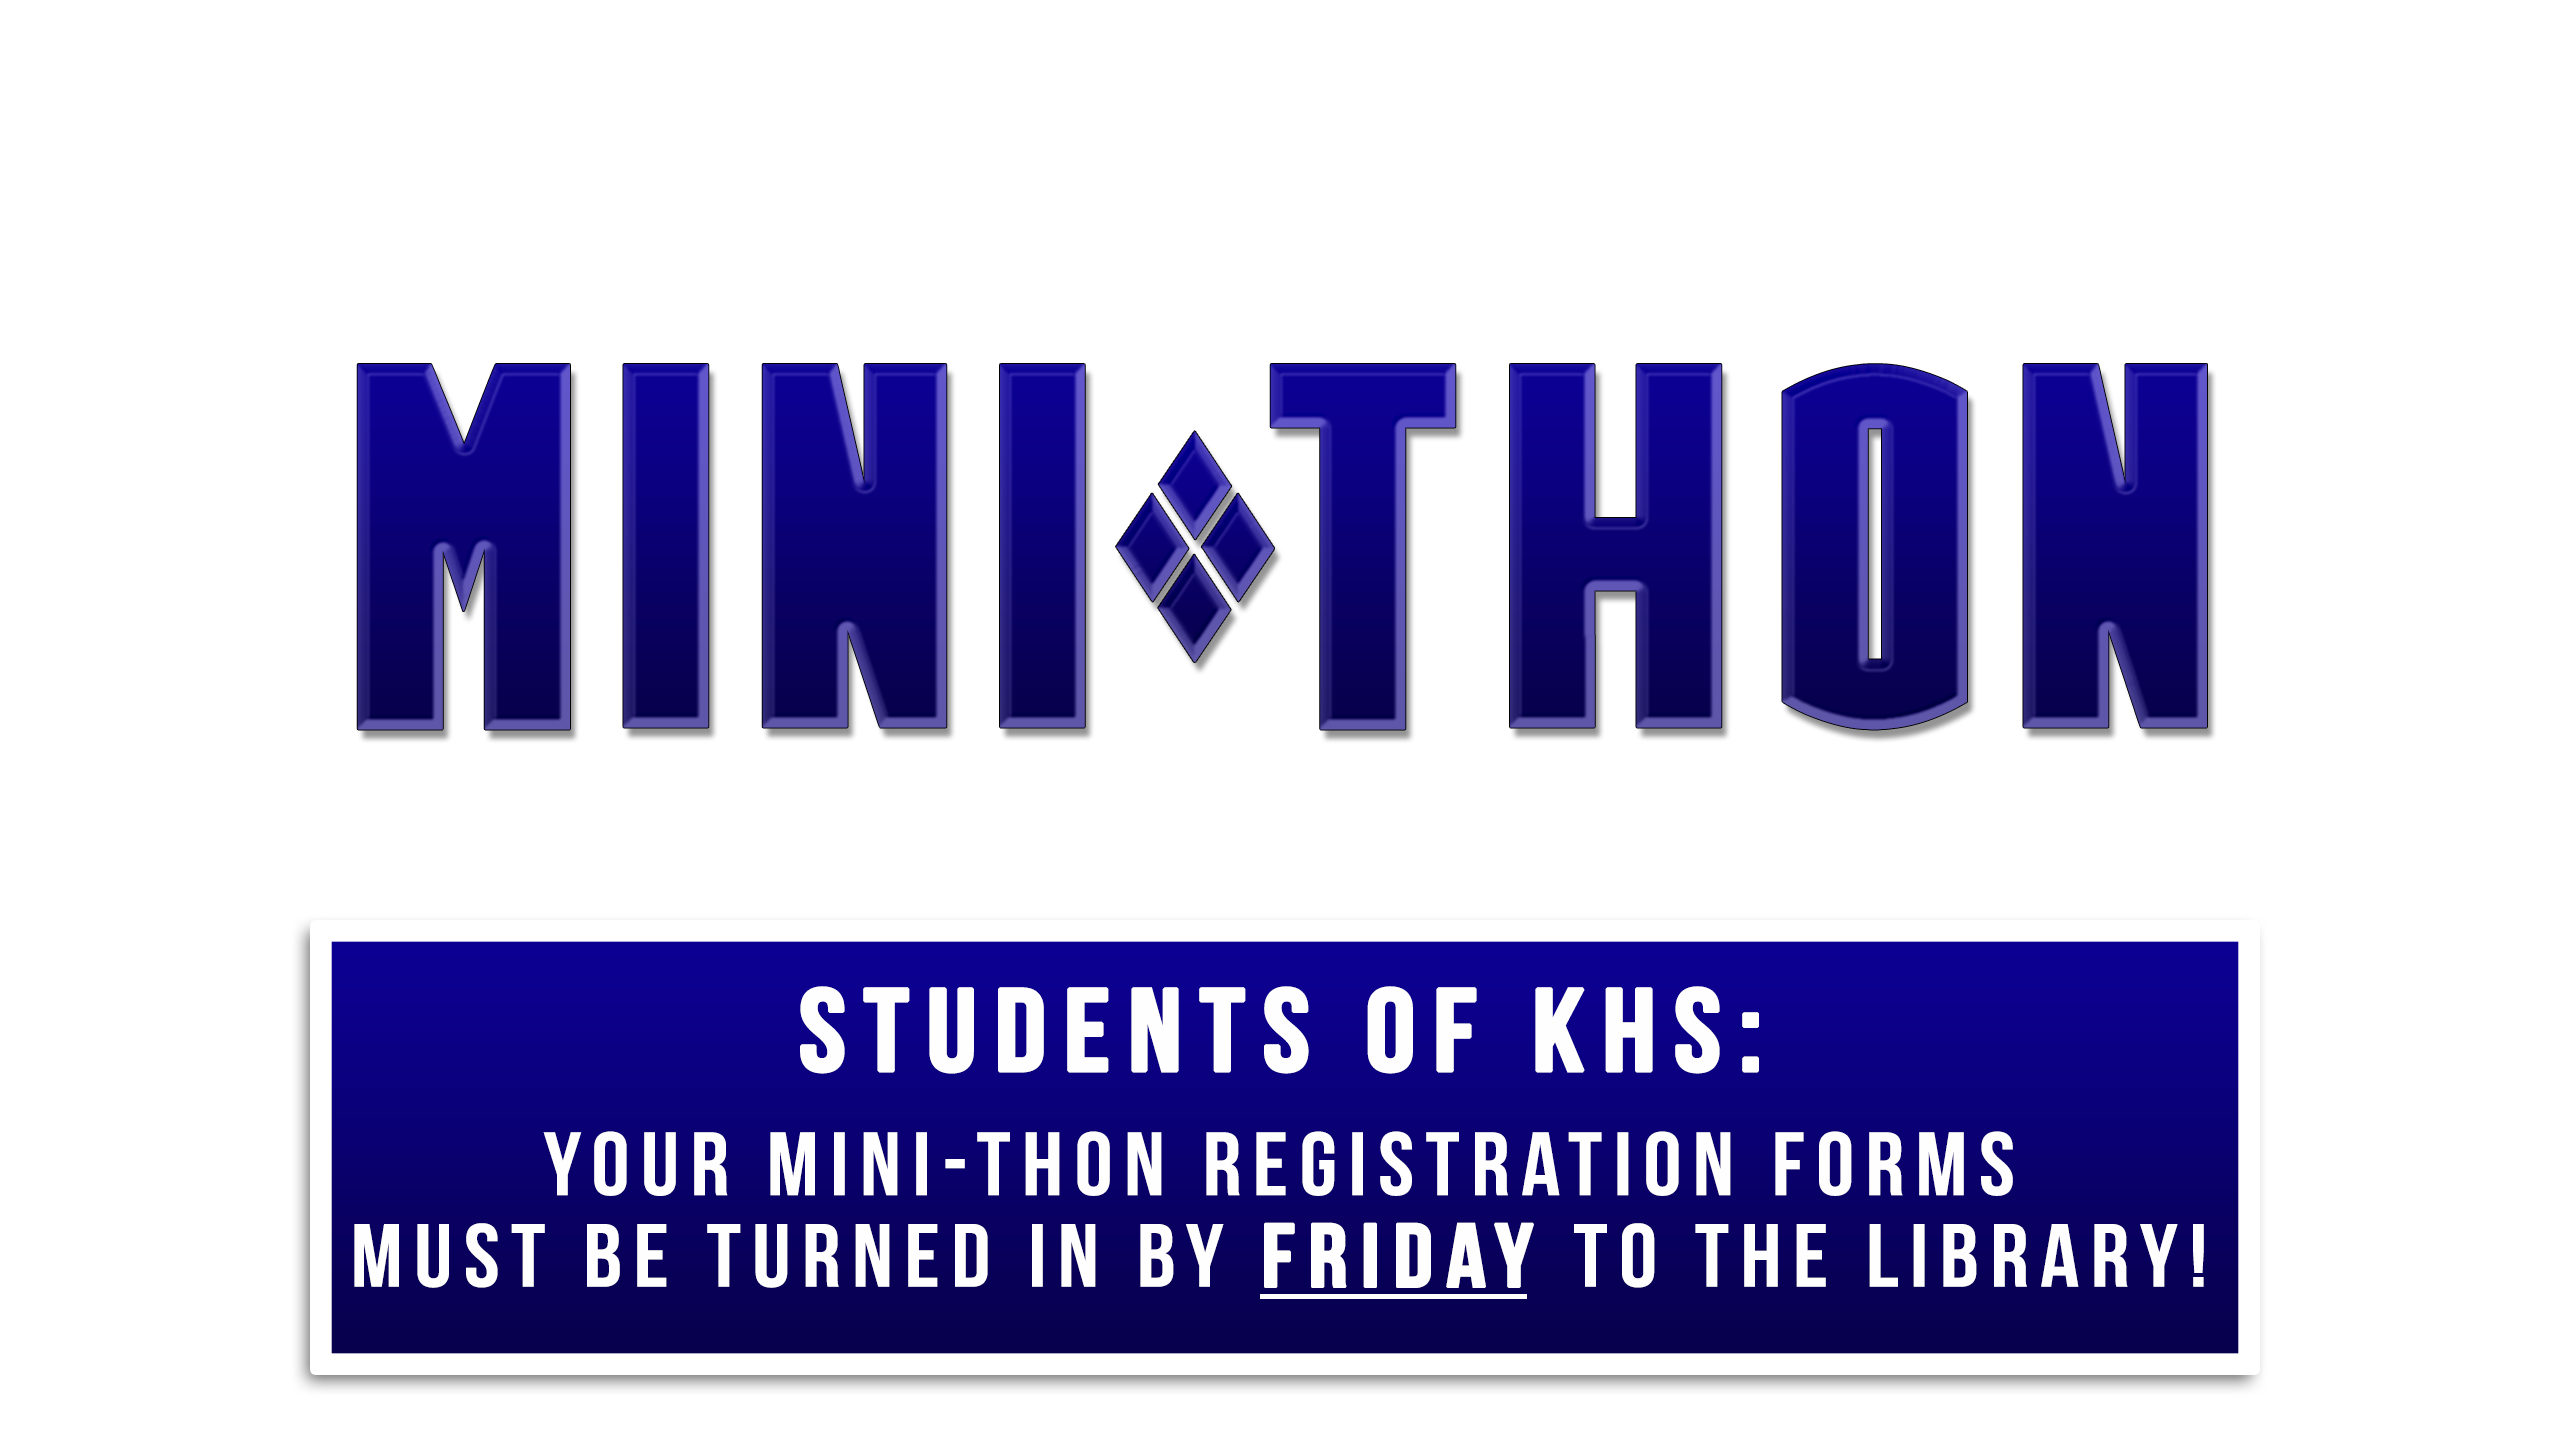
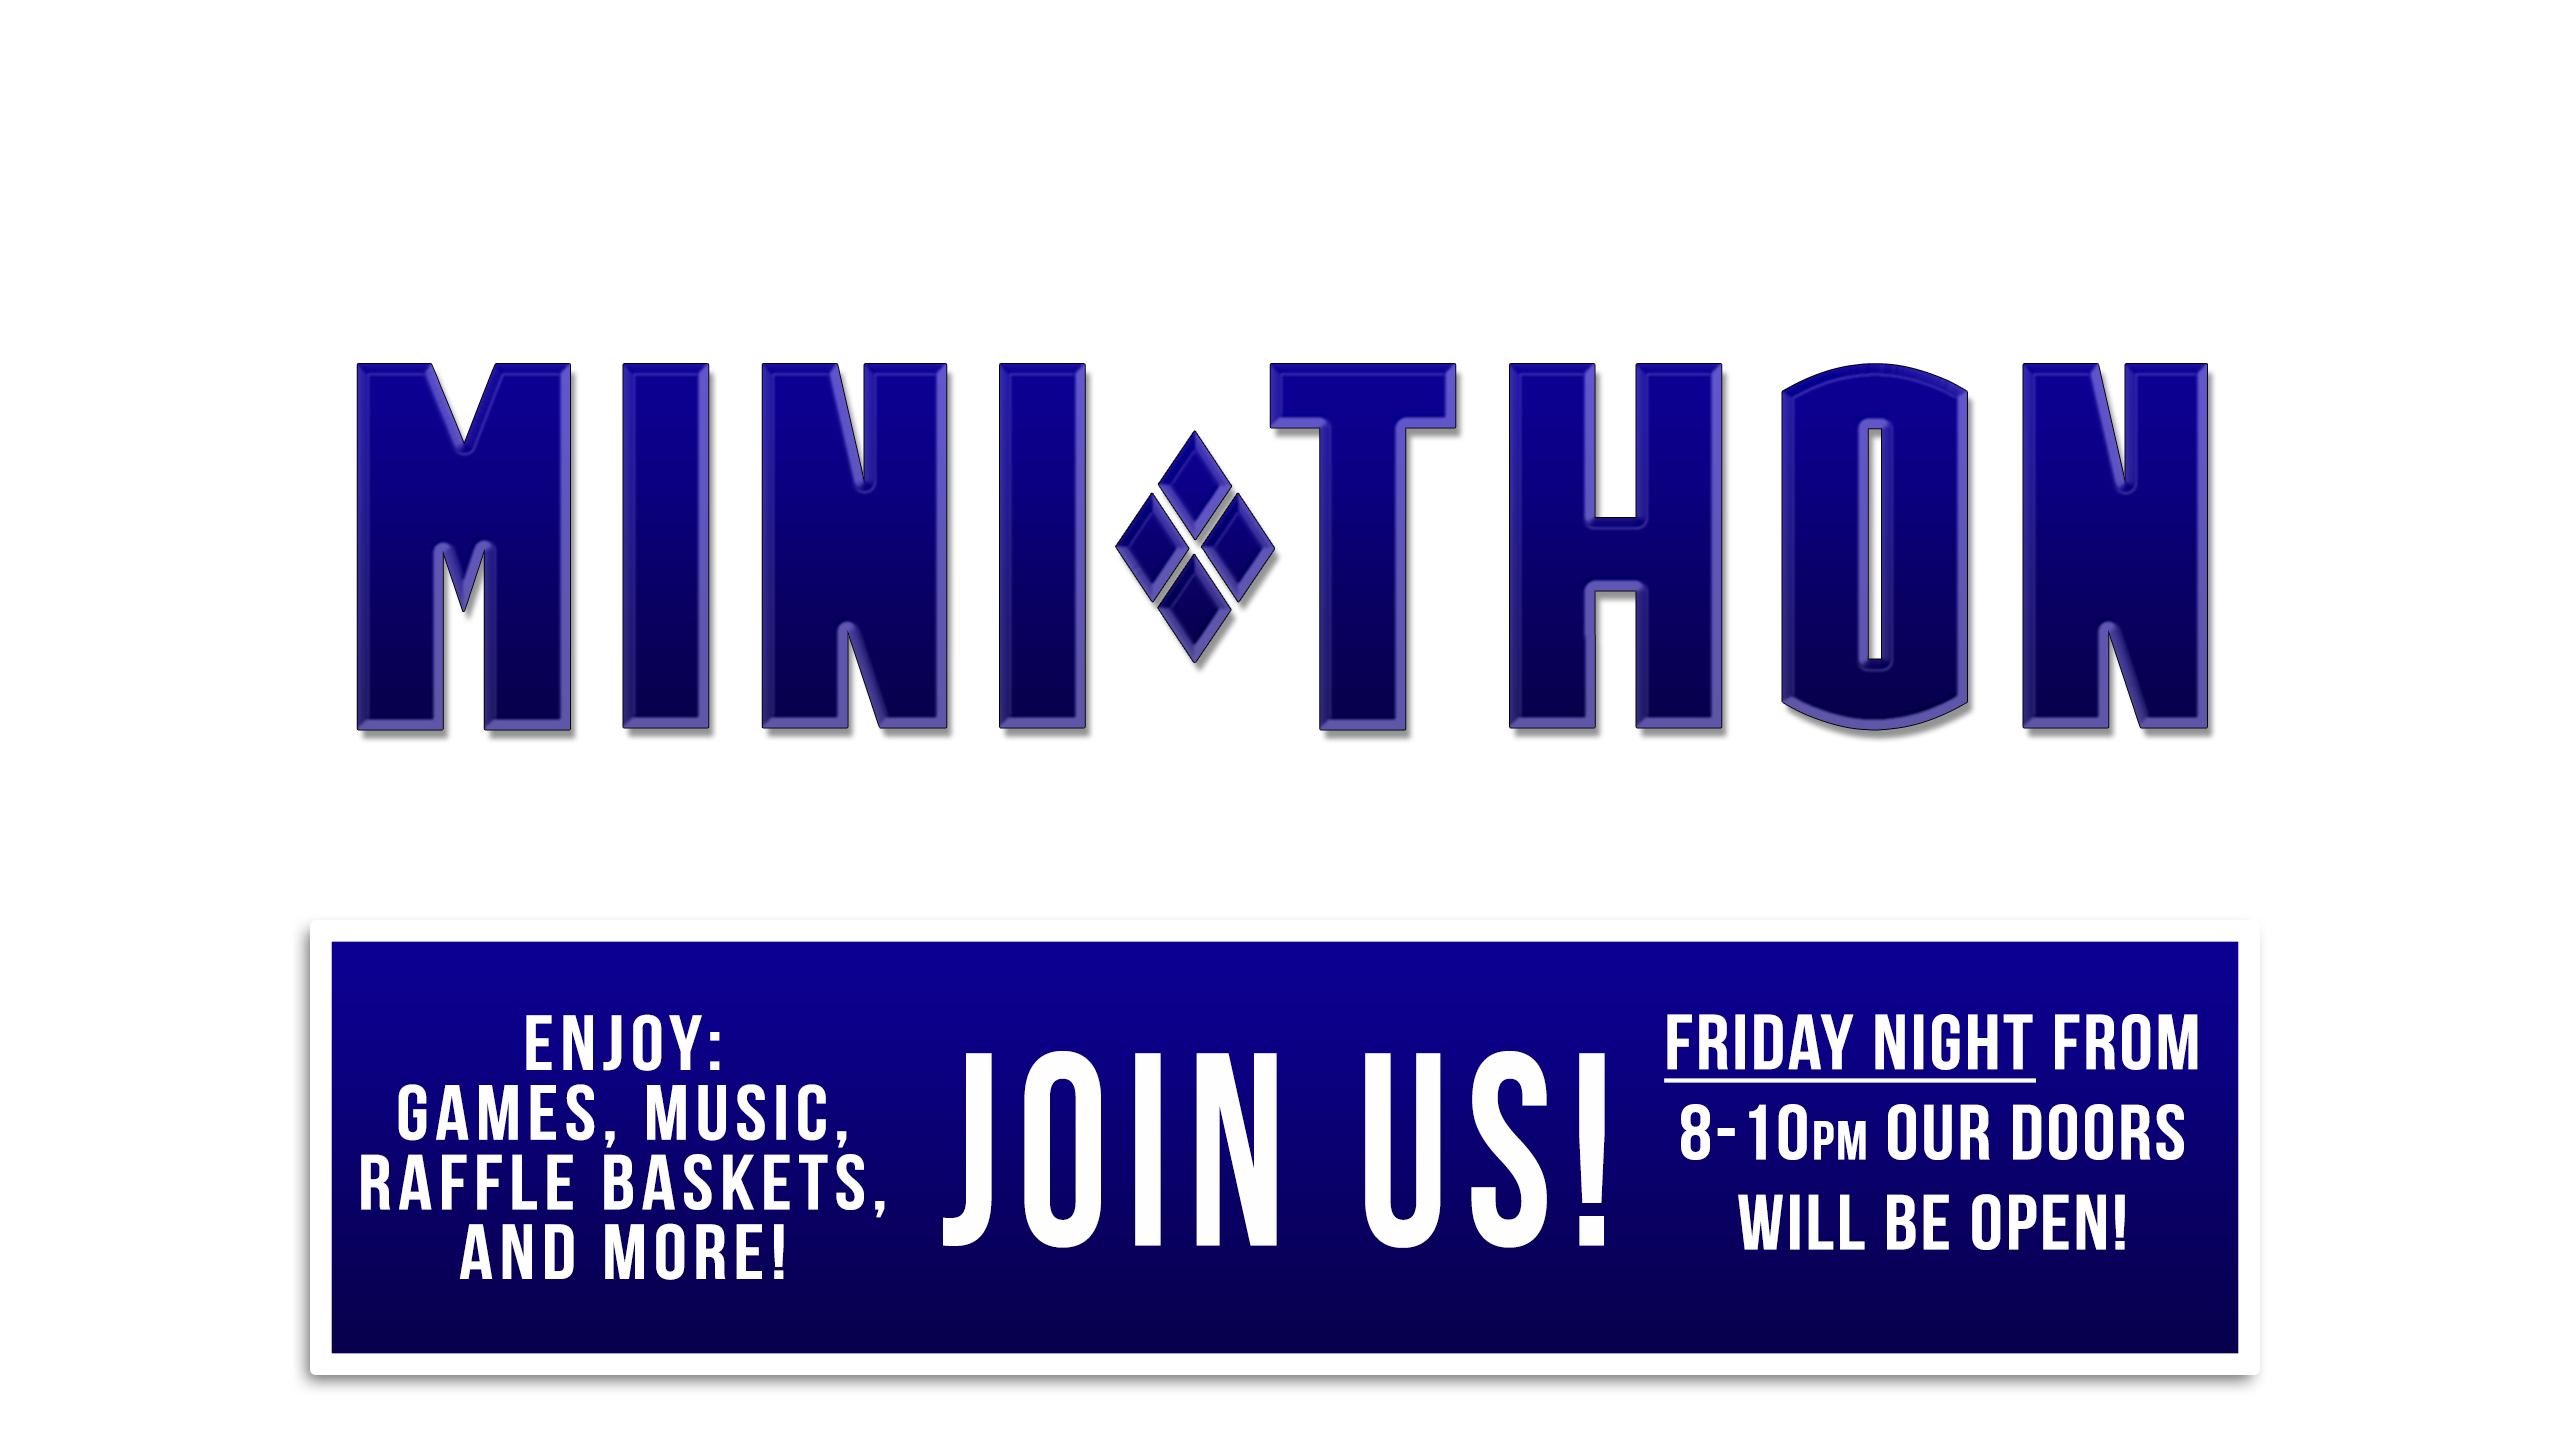
Header

Changed region(s): [[0.125, 0.6875, 0.875, 0.9062]]

diff --git a/index.html b/index.html
@@ -147,7 +147,7 @@
           <div class="caption text-center text-white" data-stellar-ratio="0.7">
             <div]>
               <div class="item">
-                <div><img id="event-logo" src="img/hero_header.png"></img></div>
+                <div><a href="https://www.facebook.com/events/210348662750578/"><img id="event-logo" src="img/hero_header_BANNER.png"></img></a></div>
                 <br>
                 <p id="event-date"><strong>Join us on February 24th, 2017.</strong></p>
                 <p id="event-slogan"><strong>For The Fight. For The Cure. For The Kids.</strong></p>
